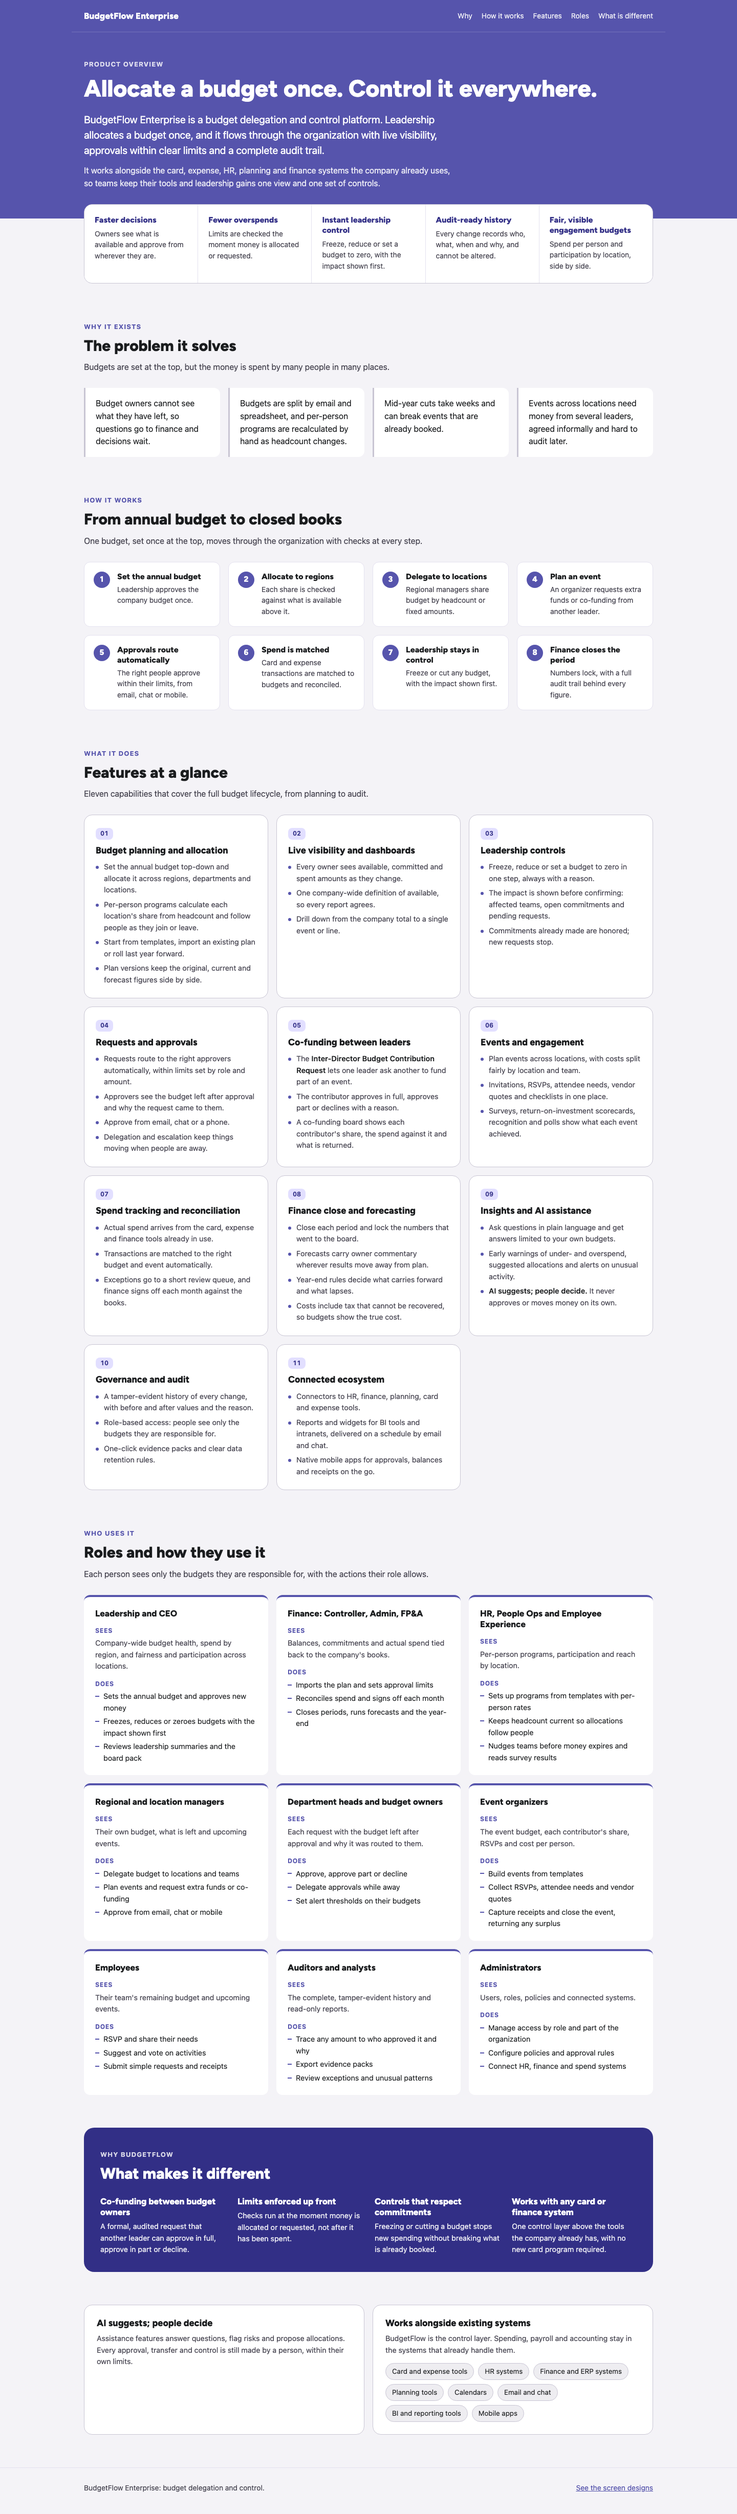
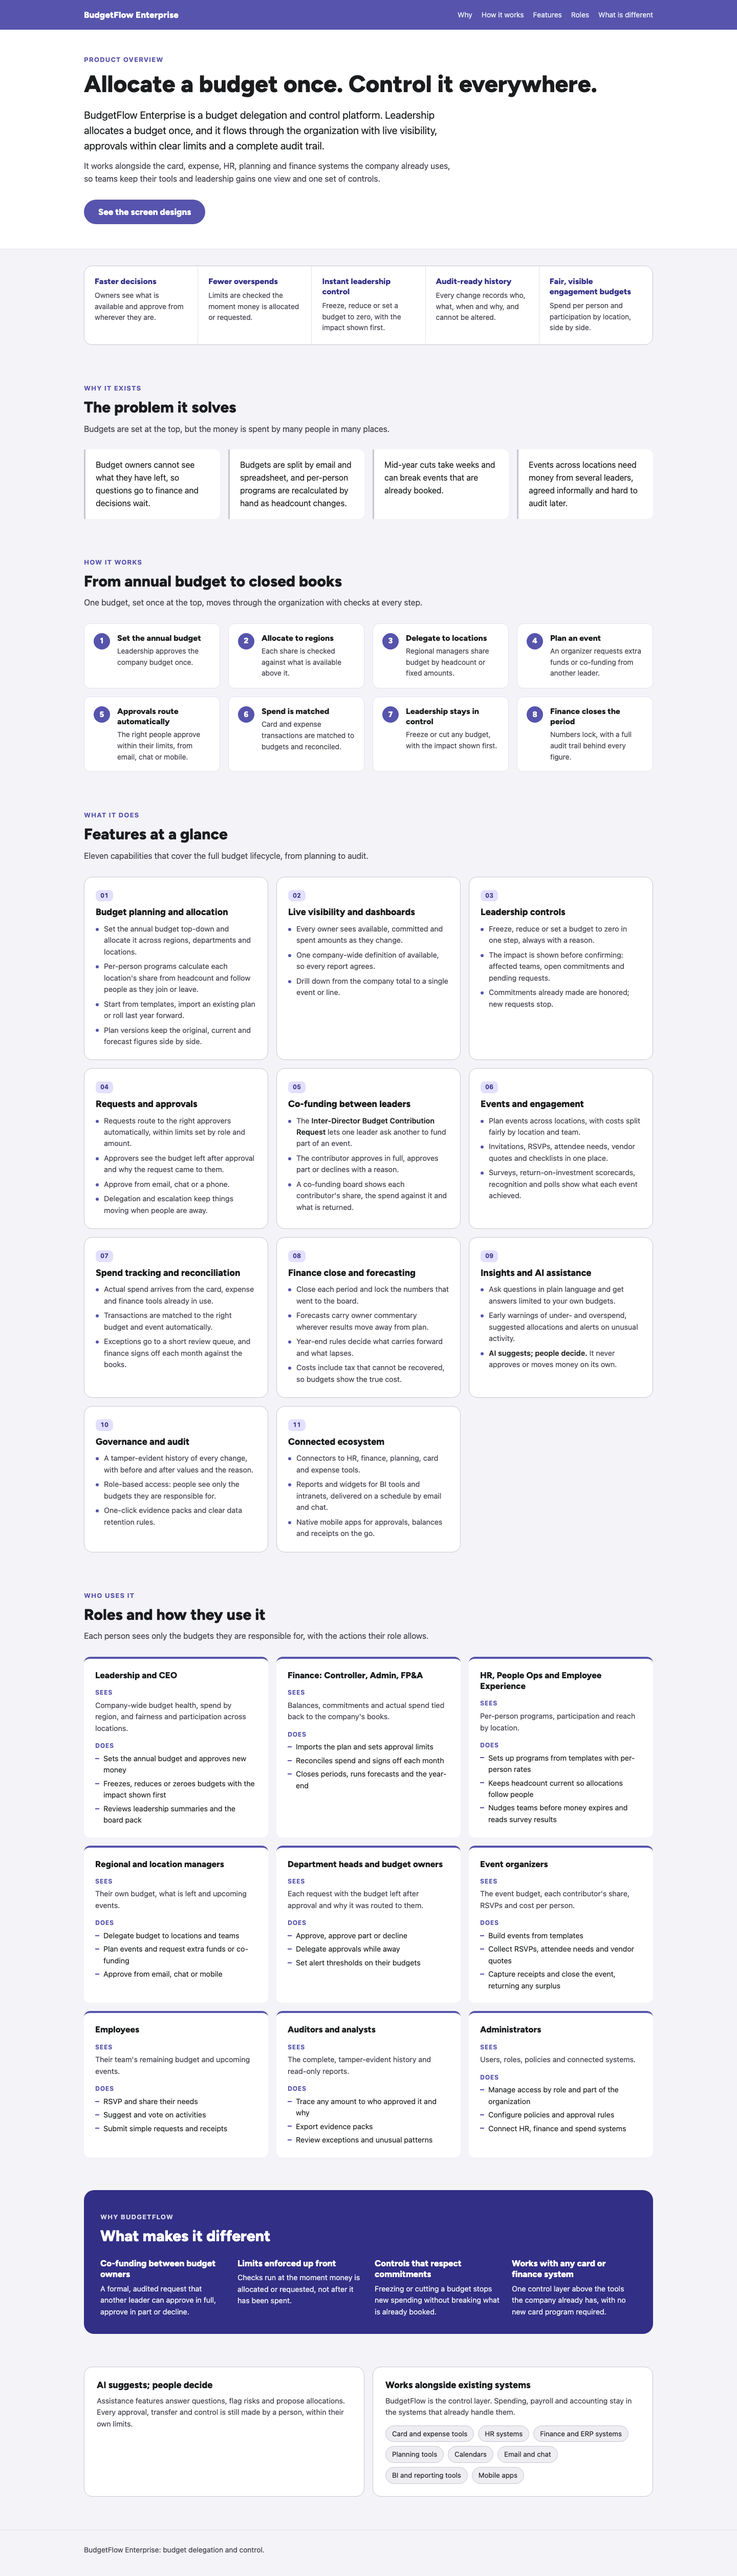
docs(evidence): record the live check of the overview hero button
After #30 merged and the preview was redeployed: HTTP 200, the filled primary button in the hero on laptop and phone, the button opens the design preview, and no footer links remain.

diff --git a/evidence/leadership-overview/README.md b/evidence/leadership-overview/README.md
@@ -40,3 +40,19 @@ The button moved from the footer to the hero, under the positioning text, as a f
 | Live page at 1440 px ([live-desktop-1440.png](live-desktop-1440.png))                 | 5 sections, 8 steps, 11 feature pillars, 9 roles        | pass   |
 | Live page on a phone ([live-mobile-390.png](live-mobile-390.png))                     | HTTP 200, no horizontal overflow                        | pass   |
 | Console and page errors                                                               | None                                                    | pass   |
+
+The full-page `live-desktop-1440.png` and `live-mobile-390.png` were replaced by the revision check below.
+
+### Live check of the hero button revision
+
+- Merged in [#30](https://github.com/narasimhahyland/budgetflow/pull/30) (merge commit `a7b8b26`), then published with `design/preview/deploy.sh` from that commit.
+- Checked: 2026-11-05 02:54 UTC, curl and Playwright 1.64.1 (Chromium) against https://narasimhahyland.github.io/budgetflow/overview/
+
+| Check                                                                                                                                | Expected                                                       | Result |
+| ------------------------------------------------------------------------------------------------------------------------------------ | -------------------------------------------------------------- | ------ |
+| `curl -sI` on the live URL ([live-curl-headers.txt](live-curl-headers.txt))                                                          | HTTP 200, `text/html`, new file (31630 bytes)                  | pass   |
+| Laptop, 1440 px ([live-desktop-1440-hero.png](live-desktop-1440-hero.png), full page [live-desktop-1440.png](live-desktop-1440.png)) | "See the screen designs" filled `#5654ac`, white text, in hero | pass   |
+| Phone, iPhone 13 ([live-mobile-390-hero.png](live-mobile-390-hero.png), full page [live-mobile-390.png](live-mobile-390.png))        | Full-width button in the first viewport, no overflow           | pass   |
+| Click the button                                                                                                                     | Opens `/budgetflow/index.html` (clickable design preview)      | pass   |
+| Footer                                                                                                                               | No links left                                                  | pass   |
+| Page errors                                                                                                                          | None                                                           | pass   |
